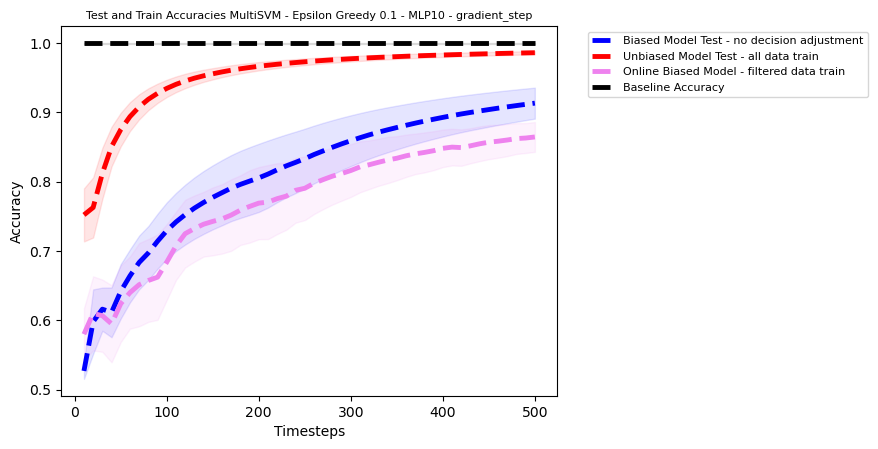
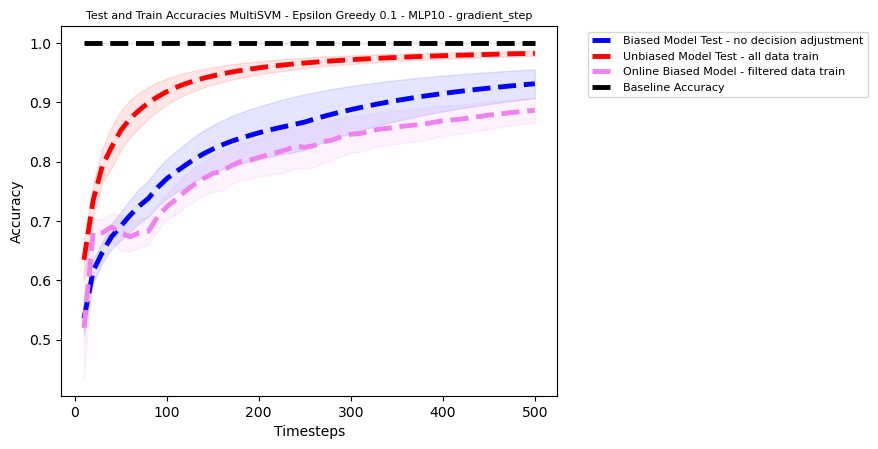
asdflkm

diff --git a/experiment_regret.py b/experiment_regret.py
@@ -19,7 +19,7 @@ import matplotlib.pyplot as plt
 import numpy.random as npr
 from scipy.stats import wasserstein_distance, ks_2samp
 # from sklearn.linear_model import LogisticRegression
-
+import gc
 import torch
 
 from datasets import *
@@ -46,9 +46,43 @@ def train_model(model, num_steps, train_dataset, batch_size, verbose = False, re
 
     loss.backward()
     optimizer.step()
-
   return model
 
+
+
+def train_model_with_stopping(model, min_epoch_size, train_dataset, batch_size, verbose = False, restart_model_full_minimization = True, eps = .0001, max_epochs = 3):
+  curr_epoch_size = min_epoch_size
+  prev_loss_value = float("inf")
+
+  if restart_model_full_minimization:
+    batch_X, batch_y = train_dataset.get_batch(batch_size)
+    model.initialize_model(batch_X.shape[1])
+
+  curr_epoch_index = 0
+
+  while True:
+    model = train_model(model, curr_epoch_size, train_dataset, batch_size, verbose = False, restart_model_full_minimization = False)
+    train_batch = train_dataset.get_batch(1000)
+    with torch.no_grad():
+      curr_loss = model.get_loss(train_batch[0], train_batch[1])
+      curr_loss = curr_loss.detach()
+
+    if verbose:
+      print("Curr loss ", curr_loss, "Prev loss ", prev_loss_value)
+      
+    if curr_loss  < eps:#eps and prev_loss_value - eps < curr_loss:
+      #print("asdlfkmasdlfkmasdlkfmasldkfm", " Curr loss ", curr_loss, "Prev loss ", prev_loss_value)
+      return model
+
+    prev_loss_value = curr_loss.detach()
+    curr_epoch_size = 2*curr_epoch_size
+    curr_epoch_index+= 1
+    if curr_epoch_index == max_epochs:
+      curr_epoch_size = min_epoch_size
+      curr_epoch_index = 0
+      prev_loss_value = float("inf")   
+      batch_X, batch_y = train_dataset.get_batch(batch_size)
+      model.initialize_model(batch_X.shape[1])
 
 
 def train_model_counterfactual(model, num_steps, train_dataset, batch_size, query_batch, counterfactual_regularizer = 1, verbose = False, restart_model_full_minimization  = True ):
@@ -143,13 +177,14 @@ def run_regret_experiment_pytorch( dataset,
 
 
   baseline_model = train_model(baseline_model, baseline_steps, train_dataset, baseline_batch_size)
-
+  print("Finished training baseline model")
 
   with torch.no_grad():
     baseline_batch_test, protected_batches_test = get_batches(protected_datasets_test, test_dataset, 1000)
     baseline_accuracy, protected_accuracies = get_accuracies(baseline_batch_test, protected_batches_test, baseline_model, threshold)
     loss_validation_baseline = baseline_model.get_loss(baseline_batch_test[0], baseline_batch_test[1])
-    
+  
+  print("Baseline model accuracy {}".format(baseline_accuracy))    
 
   num_protected_groups = len(protected_datasets_train)
   wass_distances = [[] for _ in range(num_protected_groups)]
@@ -212,8 +247,10 @@ def run_regret_experiment_pytorch( dataset,
     ### TRAIN THE UNBIASED MODEL
     if training_mode == "full_minimization":
       unbiased_dataset.add_data(batch_X, batch_y)      
-      model = train_model(model, num_full_minimization_steps, unbiased_dataset, batch_size, restart_model_full_minimization = restart_model_full_minimization)
+      #model = train_model(model, num_full_minimization_steps, unbiased_dataset, batch_size, restart_model_full_minimization = restart_model_full_minimization)
+      model = train_model_with_stopping(model, num_full_minimization_steps, unbiased_dataset, batch_size, verbose = False, restart_model_full_minimization = restart_model_full_minimization, eps = .0001)
 
+      gc.collect()
 
     elif training_mode == "gradient_step":
       model, optimizer_model = gradient_step(model, optimizer_model, batch_X, batch_y)
@@ -241,6 +278,7 @@ def run_regret_experiment_pytorch( dataset,
             loss_initial = model_biased.get_loss(all_data_X, all_data_Y)
           if estimate_loss_confidence_band:
             loss_confidence_band = 2*compute_loss_confidence_band(10, model_biased, num_full_minimization_steps, biased_dataset, batch_size, verbose = False)
+            gc.collect()
           else:
             loss_confidence_band = loss_initial
 
@@ -253,7 +291,7 @@ def run_regret_experiment_pytorch( dataset,
 
             model_biased_prediction = train_model_counterfactual(model_biased_prediction,  num_full_minimization_steps, biased_dataset, batch_size, batch_X, 
               counterfactual_regularizer = counterfactual_reg, verbose = False, restart_model_full_minimization = restart_model_full_minimization)
-            
+            gc.collect()
 
             ##### EVALUATE THE EXPECTED LOSS ###  
             with torch.no_grad():
@@ -302,7 +340,11 @@ def run_regret_experiment_pytorch( dataset,
     if biased_batch_size > 0:
       if training_mode == "full_minimization":
         biased_dataset.add_data(biased_batch_X, biased_batch_y)
-        model_biased = train_model(model_biased, num_full_minimization_steps, biased_dataset, batch_size, restart_model_full_minimization = restart_model_full_minimization)
+        #model_biased = train_model(model_biased, num_full_minimization_steps, biased_dataset, batch_size, restart_model_full_minimization = restart_model_full_minimization)
+        model_biased = train_model_with_stopping(model_biased, num_full_minimization_steps, biased_dataset, batch_size, verbose = False, restart_model_full_minimization = restart_model_full_minimization, eps = .0001)
+        gc.collect()
+
+
 
 
       elif training_mode == "gradient_step":
@@ -335,12 +377,12 @@ def run_regret_experiment_pytorch( dataset,
       global_probabilities_list, protected_predictions = get_predictions(global_batch_test, protected_batches_test, model)
       total_accuracy, protected_accuracies = get_accuracies(global_batch_test, protected_batches_test, model, threshold)
 
-
-      #### Compute loss diagnostics
-      biased_loss = model_biased.get_loss(batch_X_test, batch_y_test)
-      loss = model.get_loss(batch_X_test, batch_y_test)
-      loss_validation.append(loss.detach())
-      loss_validation_biased.append(biased_loss.detach())
+      with torch.no_grad():
+        #### Compute loss diagnostics
+        biased_loss = model_biased.get_loss(batch_X_test, batch_y_test)
+        loss = model.get_loss(batch_X_test, batch_y_test)
+        loss_validation.append(loss.detach())
+        loss_validation_biased.append(biased_loss.detach())
 
 
       accuracies_list.append(total_accuracy)
@@ -348,15 +390,34 @@ def run_regret_experiment_pytorch( dataset,
       biased_total_accuracy, biased_protected_accuracies = get_accuracies(global_batch_test, protected_batches_test, model_biased, threshold)
       biased_accuracies_list.append(biased_total_accuracy)
 
+
+      #### Compute training biased accuracy
+      train_biased_batch = biased_dataset.get_batch(1000)
+      biased_train_accuracy = get_accuracies_simple(train_biased_batch,  model_biased , threshold)
+      with torch.no_grad():
+        loss_train_biased = model_biased.get_loss(train_biased_batch[0], train_biased_batch[1])
+        loss_train_biased = loss_train_biased.detach()
+
+
+
       if verbose:
+        # IPython.embed()
+        # raise ValueError("as;kdfm")
         print("Iteration {}".format(counter))
         print("Total proportion of biased data {}".format(1.0*biased_data_totals/(batch_size*counter)))
+        print("Biased TRAIN accuracy  ", biased_train_accuracy)
+        print("Biased TRAIN loss ", loss_train_biased)
 
+        print("                                                               Baseline accuracy ", baseline_accuracy)
         ### Compute the global accuracy. 
-        print("                                                               Accuracy ", total_accuracy)
+        print("                                                               Unbiased Accuracy ", total_accuracy)
                   
         ### Compute the global accuracy. 
         print("                                                               Biased Accuracy ", biased_total_accuracy)
+
+        print("                                                               Validation Loss Unbiased ", loss_validation[-1] )
+
+        print("                                                               Validation Loss Biased ", loss_validation_biased[-1])
 
       test_biased_accuracies_cum_averages = np.cumsum(biased_accuracies_list)
       test_biased_accuracies_cum_averages = test_biased_accuracies_cum_averages/(np.arange(len(timesteps))+1)

diff --git a/pytorch_experiments.py b/pytorch_experiments.py
@@ -290,7 +290,7 @@ def run_and_plot(dataset, logging_frequency, max_num_steps, logistic_learning_ra
 def main():
 
 	for dataset in [ "MultiSVM", "MNIST", "Adult"]:
-		training_modes = [ "gradient_step"]#, "full_minimization"]
+		training_modes = [ "full_minimization", "gradient_step"]#, "full_minimization"]
 
 		logging_frequency = 10
 		max_num_steps = 500
@@ -310,7 +310,7 @@ def main():
 		epsilons = [.1, .2, .5]
 		alphas = [1, 4]
 
-		MLP_and_layer_sizes = list(itertools.product([True], representation_layer_sizes)) + [(False, None)]
+		MLP_and_layer_sizes = [(False, None)] + list(itertools.product([True], representation_layer_sizes))
 		trainmodes_decision_type_adjmahalanobis_epsgreedy_epsilon_mahdisc_mahreg_alpha = list(itertools.product(training_modes, ["simple"], [False], [True], epsilons, [0], [0], [0] )) + list(itertools.product(training_modes, ["simple"], [True], [False], [0], mahalanobis_discount_factors, mahalanobis_reguarizers, alphas ))
 		trainmodes_decision_type_adjmahalanobis_epsgreedy_epsilon_mahdisc_mahreg_alpha += [("full_minimization", "counterfactual", False, False, 0, 0, 0, 0) ]
 
@@ -319,15 +319,20 @@ def main():
 
 
 		for MLP, representation_layer_size, training_mode, decision_type, adjust_mahalanobis, epsilon_greedy, epsilon, mahalanobis_discount_factor, mahalanobis_regularizer, alpha in all_params:
-			# training_mode = "full_minimization"
-			# decision_type = "counterfactual"
-			# adjust_mahalanobis = False
-			# epsilon_greedy = False
+			training_mode = "full_minimization"
+			decision_type = "simple"
+			adjust_mahalanobis = False
+			epsilon_greedy = True
+			epsilon = .1
+			MLP = True
+			representation_layer_size = 10
+
 
 			run_and_plot(dataset, logging_frequency, max_num_steps, logistic_learning_rate, threshold, 
 						biased_threshold, batch_size, random_init, fit_intercept, num_experiments, 
 						mahalanobis_regularizer, adjust_mahalanobis, epsilon_greedy, epsilon, alpha, MLP, representation_layer_size, baseline_steps, mahalanobis_discount_factor, training_mode, decision_type)
 
+			raise ValueError("Asdlfkm")
 
 
 main()

diff --git a/models.py b/models.py
@@ -267,6 +267,15 @@ def get_accuracies(global_batch, protected_batches, model, threshold):
       batch_X, batch_y = global_batch
 
       accuracies_list = model.get_accuracy(batch_X, batch_y, threshold)
+
       protected_accuracies_list= [model.get_accuracy(protected_batch[0], protected_batch[1], threshold) for protected_batch in protected_batches ]
       return accuracies_list, protected_accuracies_list
+
+def get_accuracies_simple(global_batch, model, threshold):
+      batch_X, batch_y = global_batch
+
+      accuracies_list = model.get_accuracy(batch_X, batch_y, threshold)
+      
+      return accuracies_list
+
 
